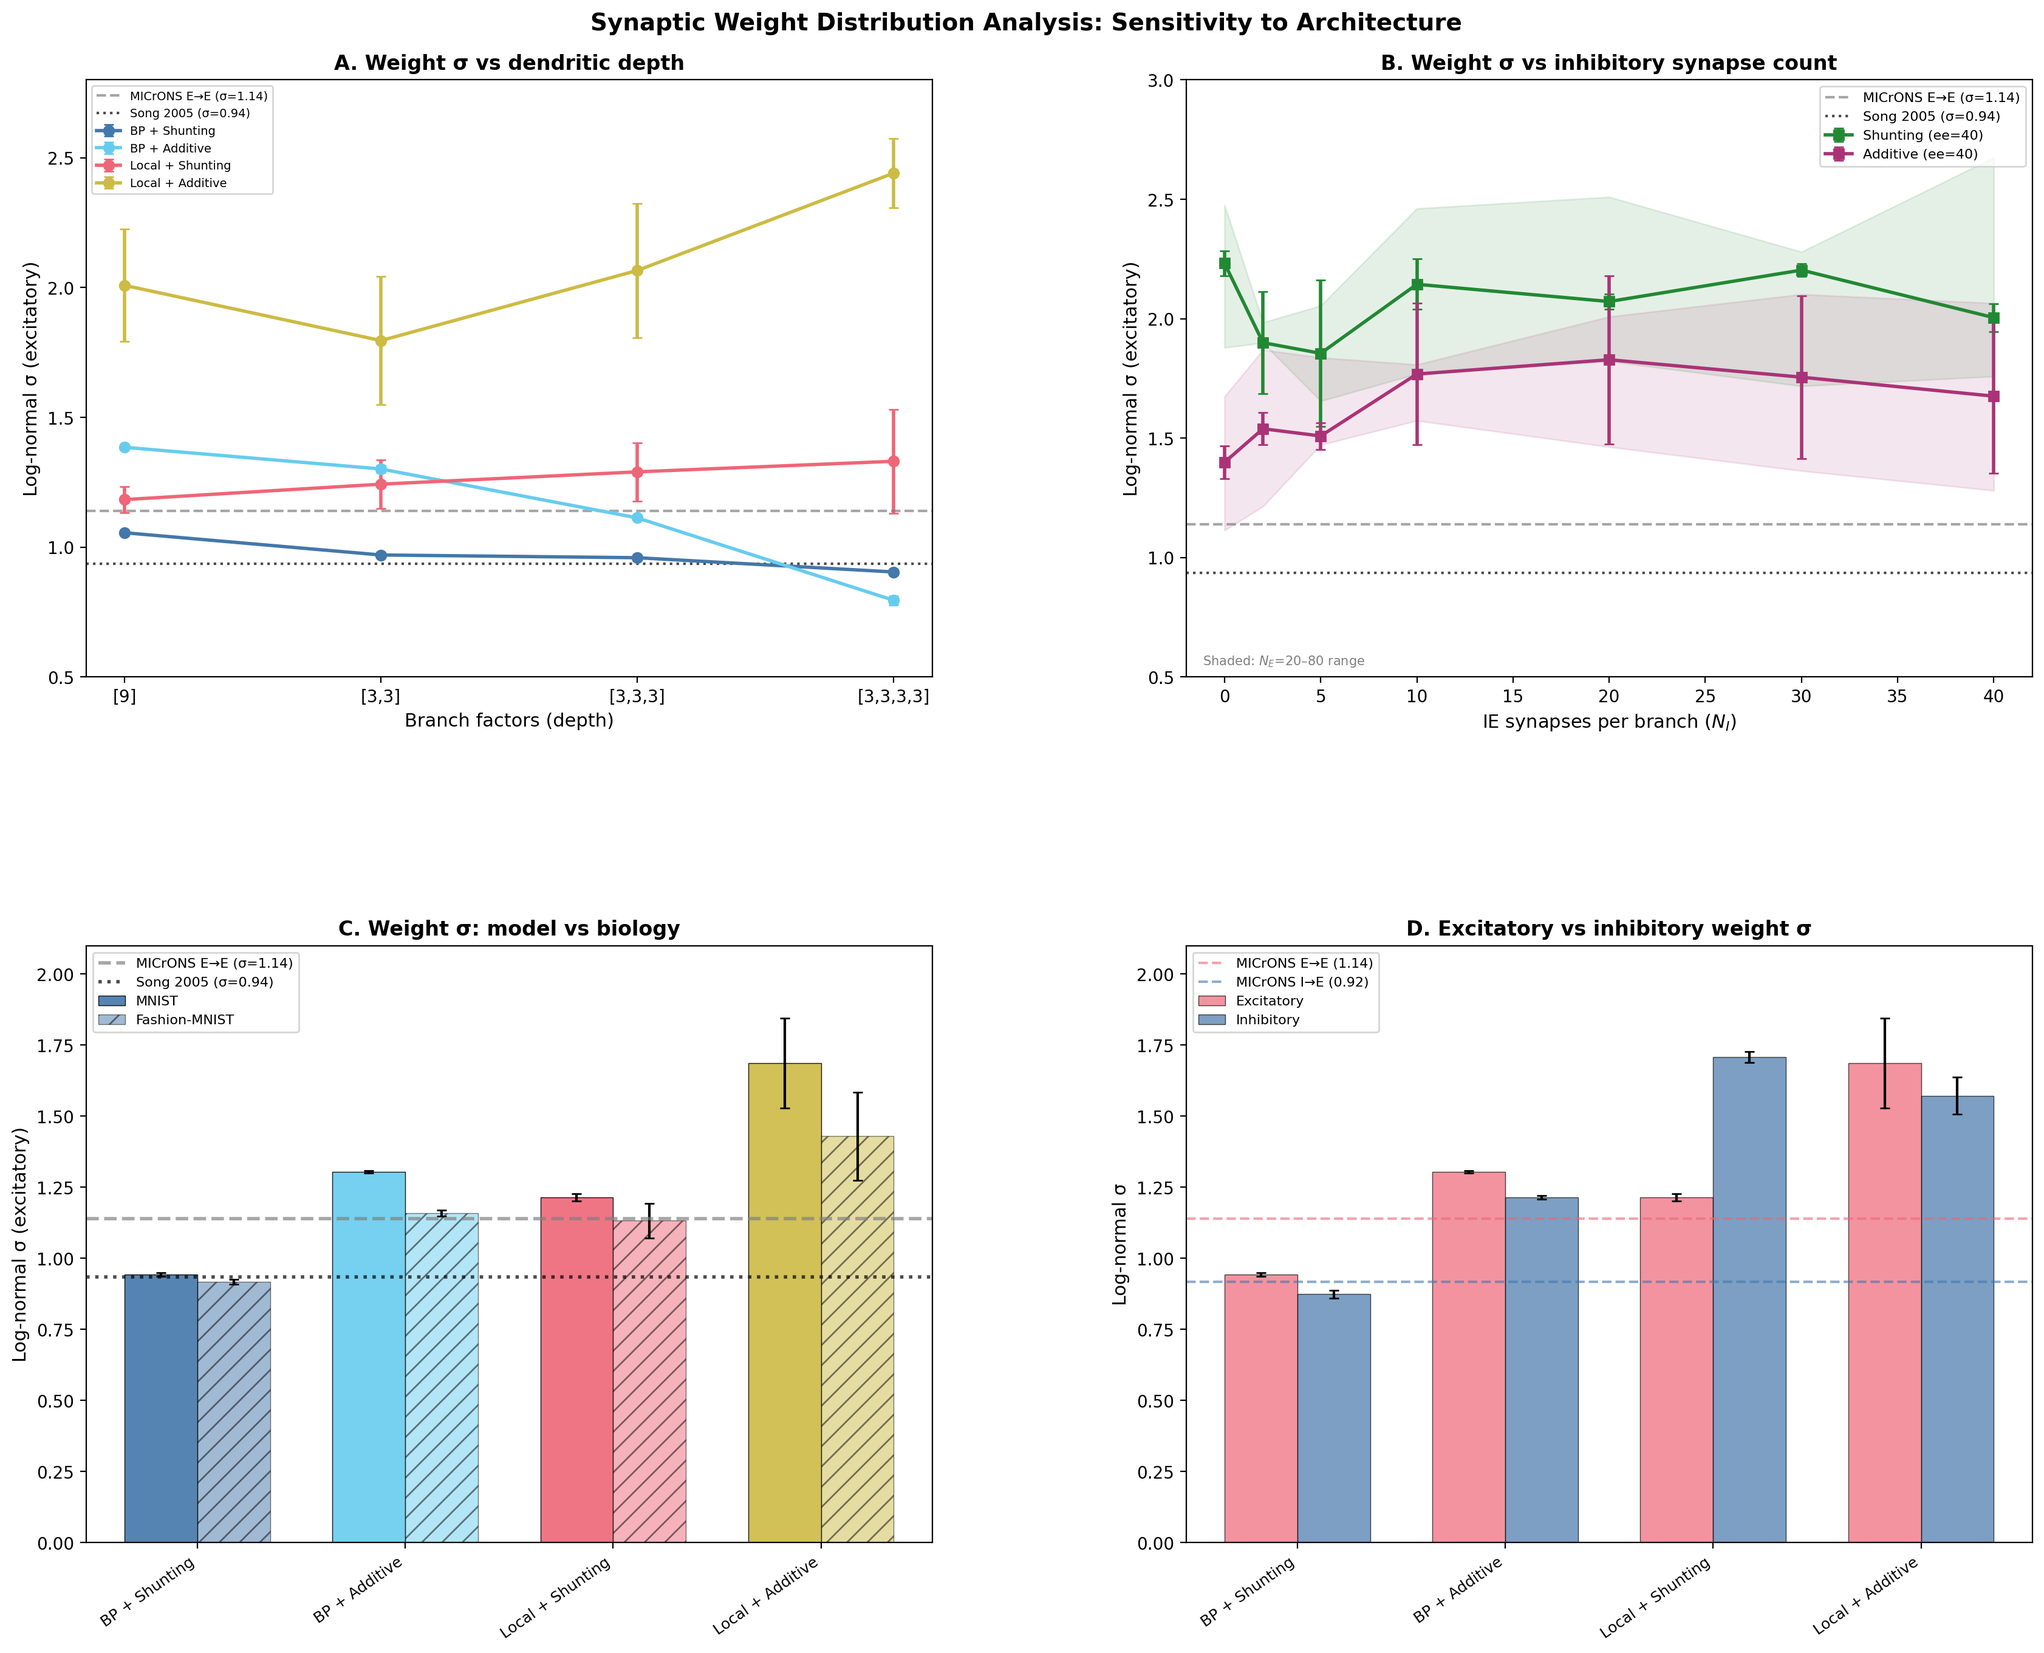
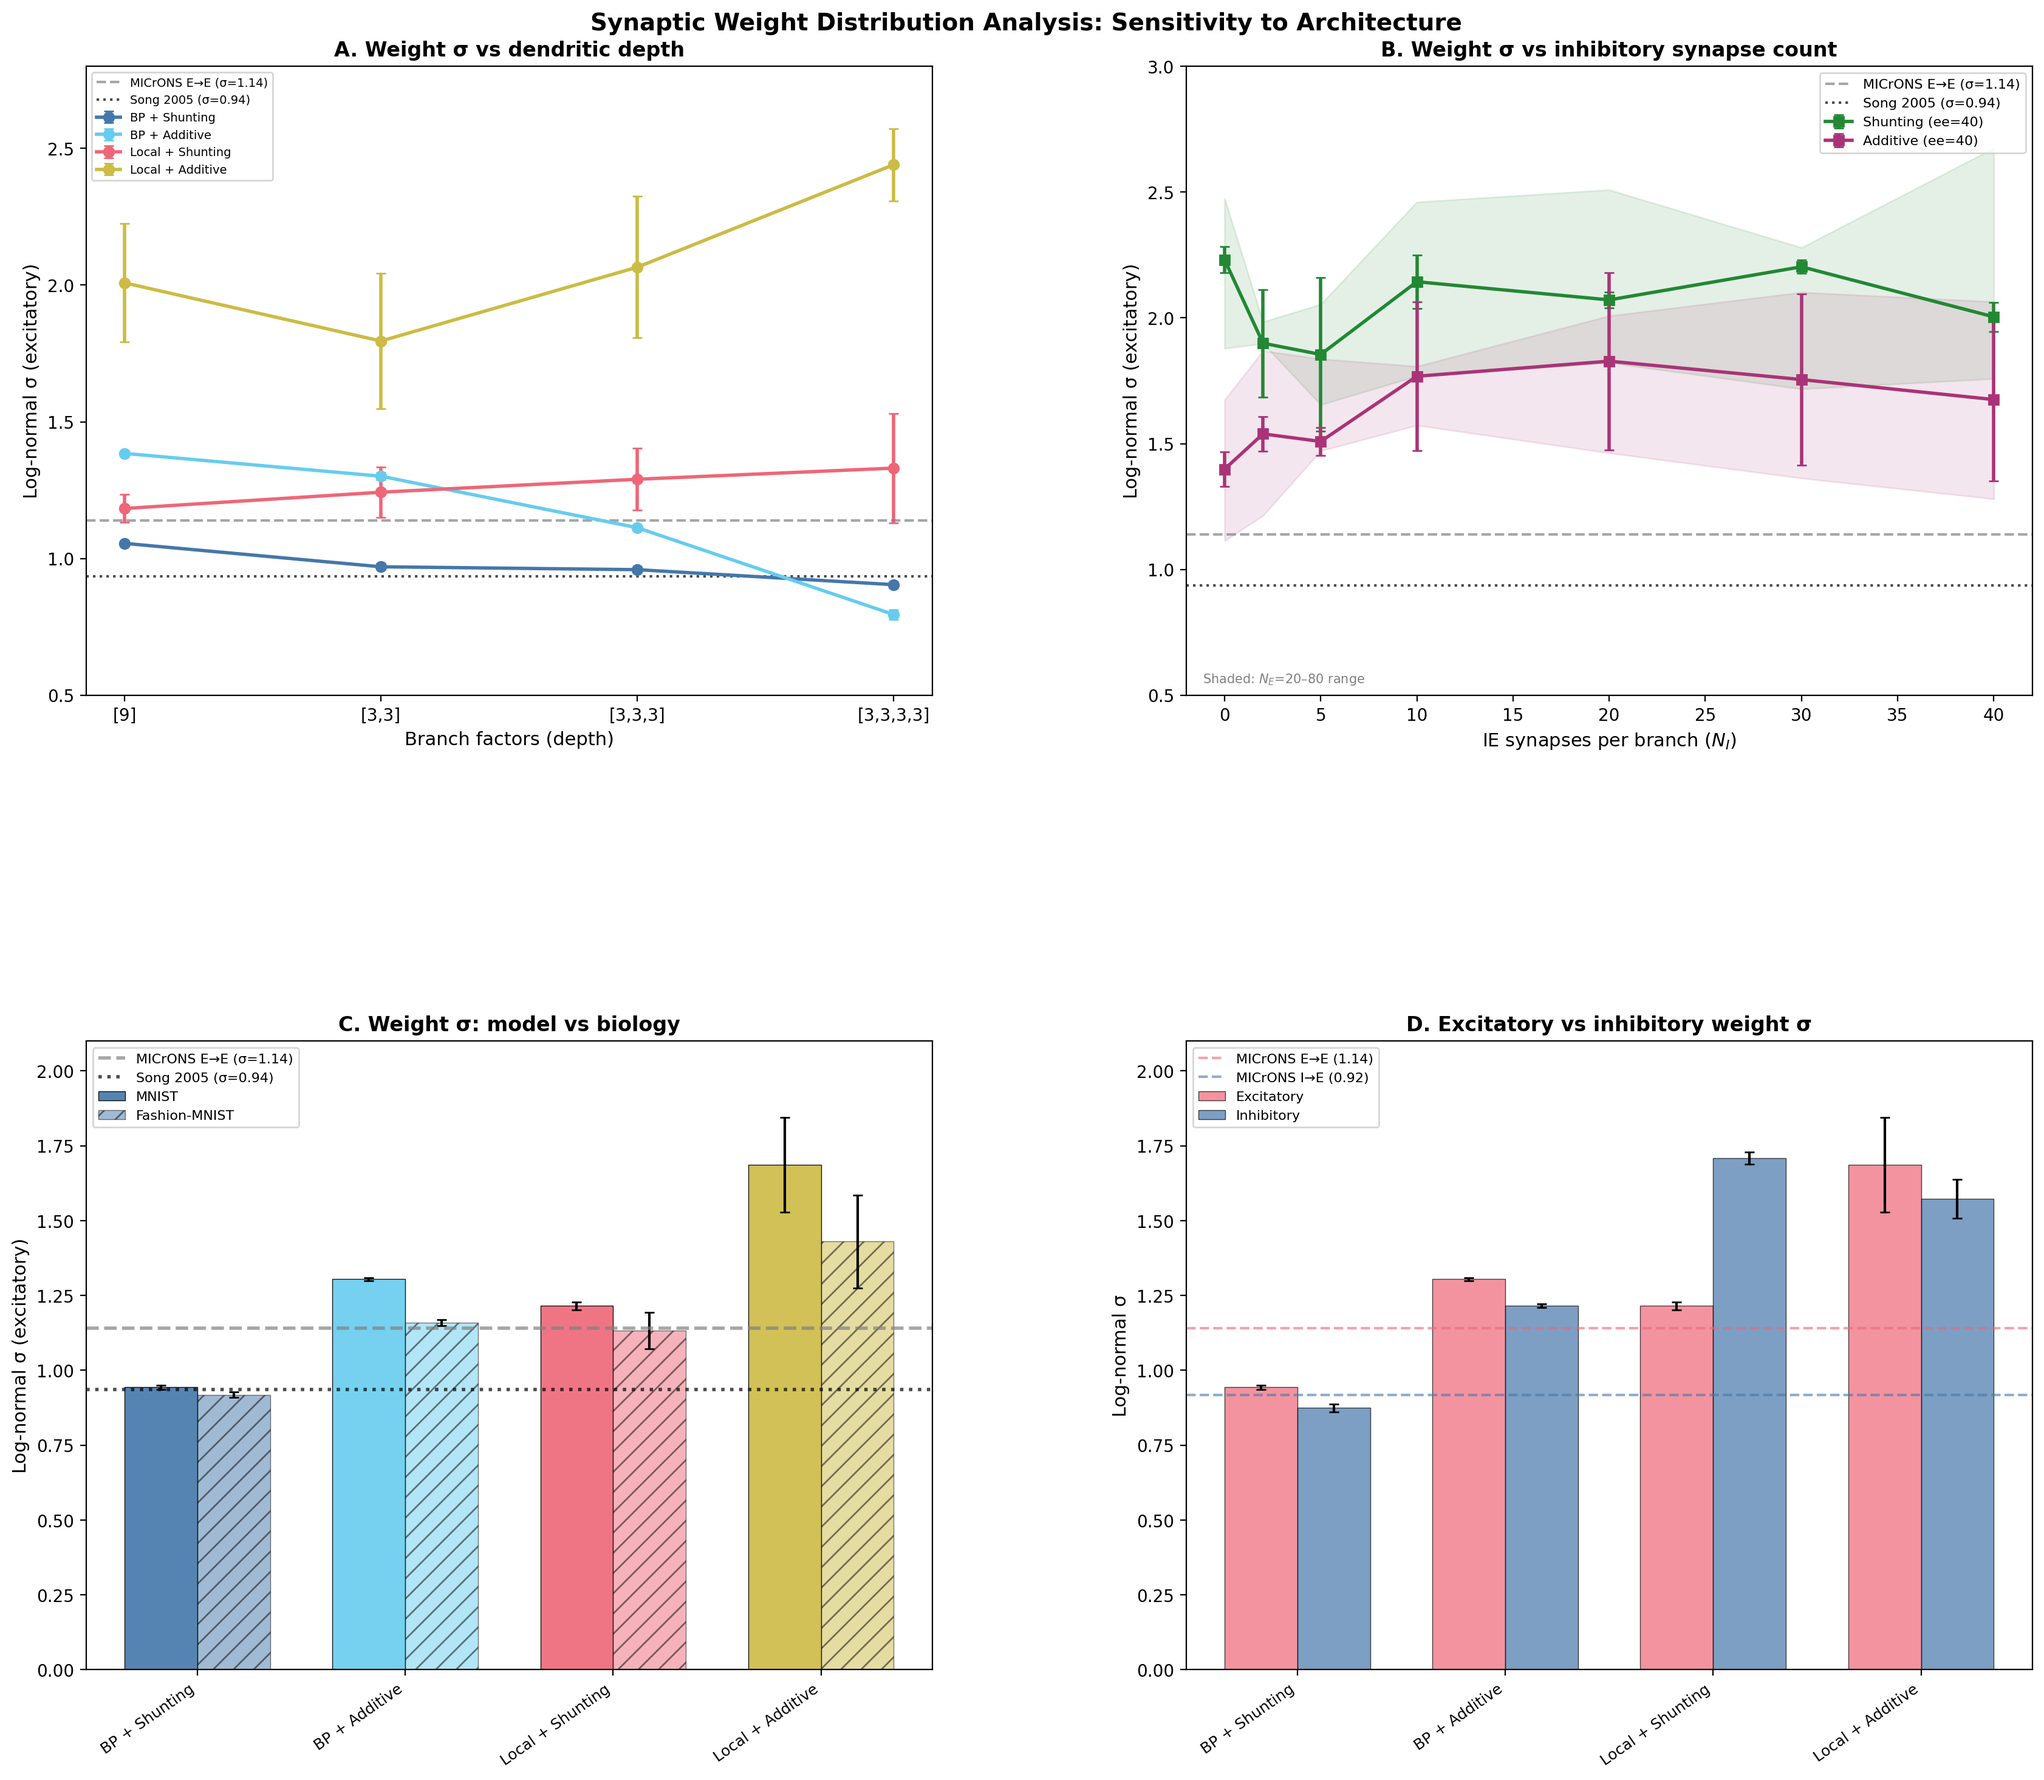
update figure 1

diff --git a/scripts/figure_weight_sensitivity.py b/scripts/figure_weight_sensitivity.py
@@ -80,9 +80,9 @@ def main():
     ei_data = load_ei_synapse_data()
     microns = load_microns_data()
 
-    fig = plt.figure(figsize=(18, 14))
-    gs = gridspec.GridSpec(2, 2, hspace=0.45, wspace=0.30,
-                           left=0.07, right=0.96, top=0.94, bottom=0.08)
+    fig = plt.figure(figsize=(18, 15))
+    gs = gridspec.GridSpec(2, 2, hspace=0.55, wspace=0.30,
+                           left=0.07, right=0.96, top=0.95, bottom=0.07)
 
     # ── Panel A: σ vs depth ──
     ax_a = fig.add_subplot(gs[0, 0])
